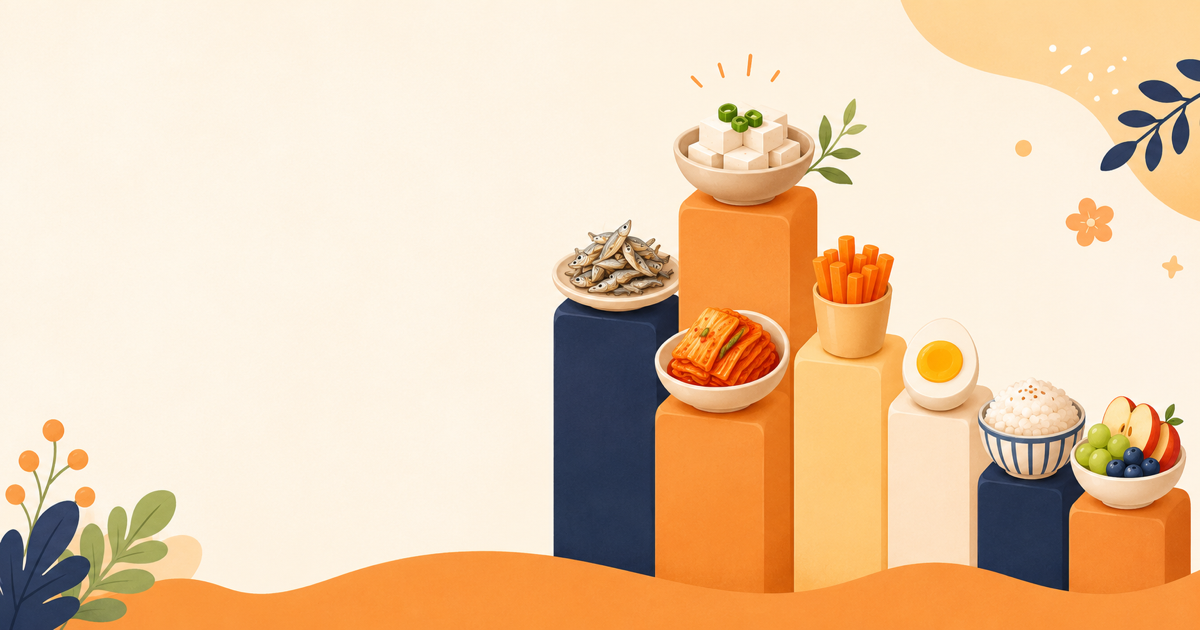
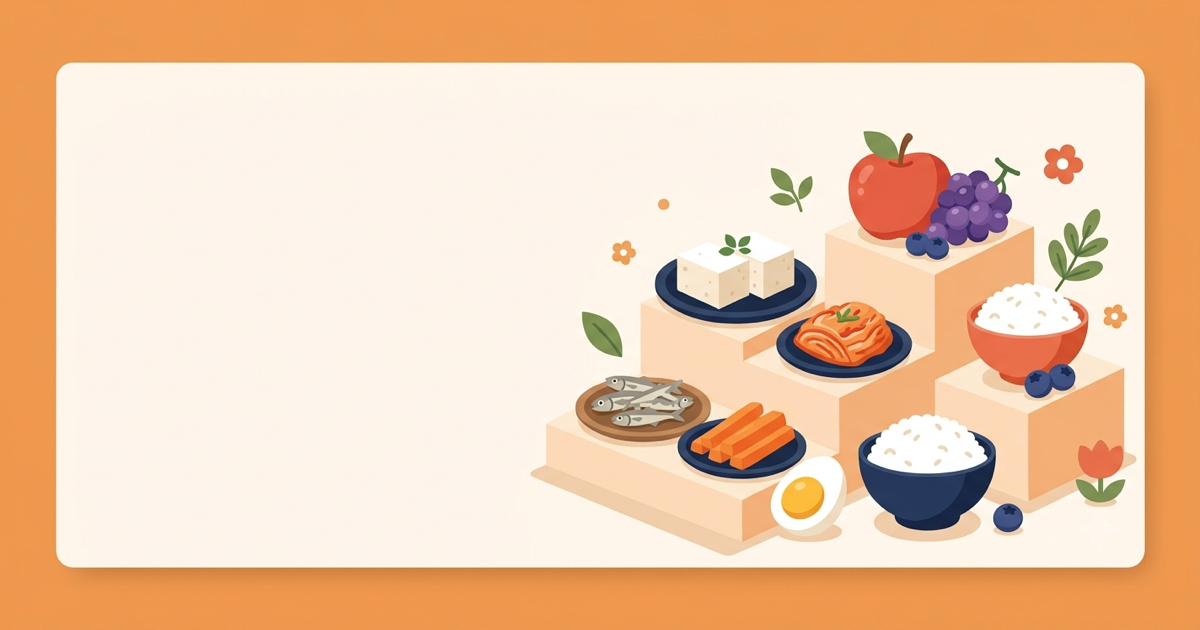
fix: 닭간(내장류) 식재료 제거 — 영유아 부적합 + 닭간장 오분해 해소
- '닭간장조림/떡볶음'(닭+간장)이 substring으로 닭의 간(닭간)으로 오분해되던 문제 +
  내장류는 영유아 급식에 안 나오고 부적합 → nutrition·도감풀·ingredient-freq(코칭) 전부 제거
- 닭간장류 → [닭고기] 정상화 · 골든 100% · vitest 586 통과 · tsc 0
- 순위표 재집계(식재료 180→179, 닭간 163위 제거) + 새 OG 이미지(여백 넓은 포디움)

diff --git a/web/lib/nutrition.ts b/web/lib/nutrition.ts
@@ -43,7 +43,6 @@ export const NUTRI_MAP: Record<string, string[]> = {
   '농어': ['단백질', '비타민D', '셀레늄', '인', '칼륨'],
   '양고기': ['단백질', '철', '아연', '비타민B12', '인'],
   '두유': ['단백질', '칼슘', '이소플라본', '철'],
-  '닭간': ['철', '엽산', '비타민B12', '비타민A', '단백질'],
   '칠면조고기': ['단백질', '셀레늄', '비타민B6', '아연', '철'],
   '당근': ['비타민A', '비타민K', '식이섬유'], '시금치': ['철', '엽산', '비타민K', '비타민A', '마그네슘'],
   '근대': ['철', '엽산', '비타민K'], '계란': ['콜린', '비타민D', '단백질', '비타민B12', '셀레늄'],